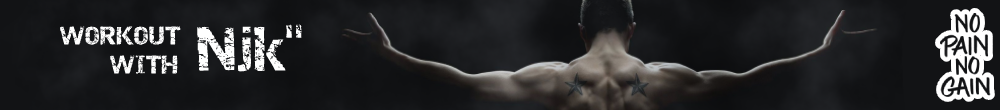
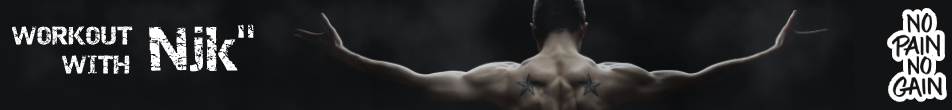
update

diff --git a/css/training.css b/css/training.css
@@ -27,17 +27,20 @@
 html,body {
     height: 100%;
     font-family: 'Share Tech Mono', monospace;
-    color: #ffffff;
     text-align: center;
-    color: #daf6ff;
+    color: #ffffff;
     text-shadow: 0 0 20px rgb(217, 221, 223),  0 0 20px rgba(217, 221, 223, 0);
 }
 body {
     /*background: #0f3854;*/
     background: #010203;
-    background: radial-gradient(ellipse at center,  #082127  0%, #000000 70%);
-    /*background: url(/images/black-dark-background.png);
-    background-size: auto;*/
+    background: radial-gradient(ellipse at center,  #303030  0%, #000000 70%);
+    /*background: url(/images/black-dark-background.jpg);
+    background-size: auto;
+    background-repeat: repeat;
+    z-index: -1;
+    opacity: 0.5;
+    filter: alpha(opacity=50);*/
 }
 p {
     margin: 0;
@@ -56,7 +59,8 @@ pre {
 
 
 .input {
-    font-family: 'Share Tech Mono', monospace;
+    /*font-family: 'Share Tech Mono', monospace;*/
+    /*font-family: 'Sportrop Regular';*/
     text-align: center;
     color: #daf6ff;
     width: 0.1px;
@@ -76,13 +80,14 @@ pre {
 }
 .input:focus + label,
 .input + label:hover {
-    background-color: #0f4654;
+    background-color: #6d6d6d;
 }
 .input + label {
     cursor: pointer;
-    background-color: #0f3854;
+    background-color: #454646;
     border-radius: 18px;
-    padding: 10px 20px 10px 20px;
+    padding: 10px 30px 10px 30px;
+    margin: auto;
 }
 .input:focus + label {
 	outline: 1px dotted rgb(255, 255, 255);
@@ -91,9 +96,10 @@ pre {
 
 
 .selectProg {
-    font-family: 'Share Tech Mono', monospace;
+    /*font-family: 'Sportrop Regular';*/
+    /*font-family: 'Share Tech Mono', monospace;*/
     text-align: center;
-    background: #0f3854;
+    background: #454646;
     color: #daf6ff;
     border-radius: 18px;
     padding: 10px 20px 10px 10px;

diff --git a/index.html b/index.html
@@ -21,8 +21,8 @@
 
             <!---<div id="upper-left-content" v-bind:class="'mode-'+textMode" v-on:click="handleMode"></div>--->
             <div class="col-sm-9" id="upper-left-content" v-on:click="handleMode">
-                <img v-if="textMode === 'free'" src="./images/banner_free2.png" class="img-responsive" alt="Change free prime">
-                <img v-if="textMode === 'prime'" src="./images/banner_prime1.png" class="img-responsive" alt="Change free free">
+                <img v-if="textMode === 'free'" src="./images/banner_free.png" class="img-responsive" alt="Change free prime">
+                <img v-if="textMode === 'prime'" src="./images/banner_prime.png" class="img-responsive" alt="Change free free">
             </div>
             
 

diff --git a/scripts/training.js b/scripts/training.js
@@ -308,7 +308,7 @@ function updateContext() {
             vm.row4 = "";
         }
         else {
-            vm.row1 = inputCSV.programName+'\u00a0\u00a0\u00a0'+(vm.exOrder+1)+'/'+vm.exSet.length+'\u00a0\u00a0\u00a0'+vm.timeClock;
+            vm.row1 = inputCSV.programName+'\u00a0\u00a0\u00a0\u00a0'+(vm.exOrder+1)+'/'+vm.exSet.length+'\u00a0\u00a0\u00a0\u00a0'+vm.timeClock;
             if (vm.rest > 0) {
                 vm.row2 = 'ROUND: '+vm.exRound+'/'+vm.exSet[vm.exOrder];
                 vm.row3 = vm.exName[vm.exOrder];
